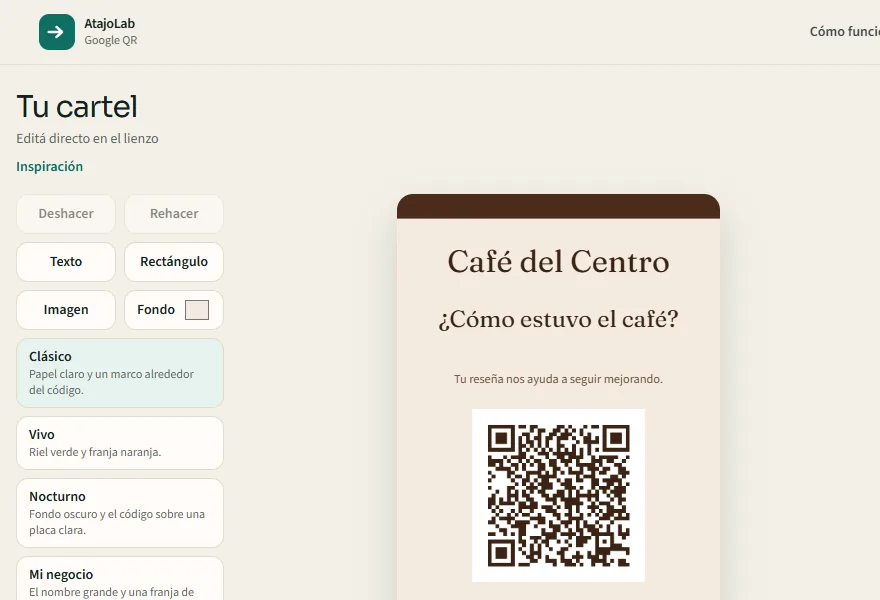
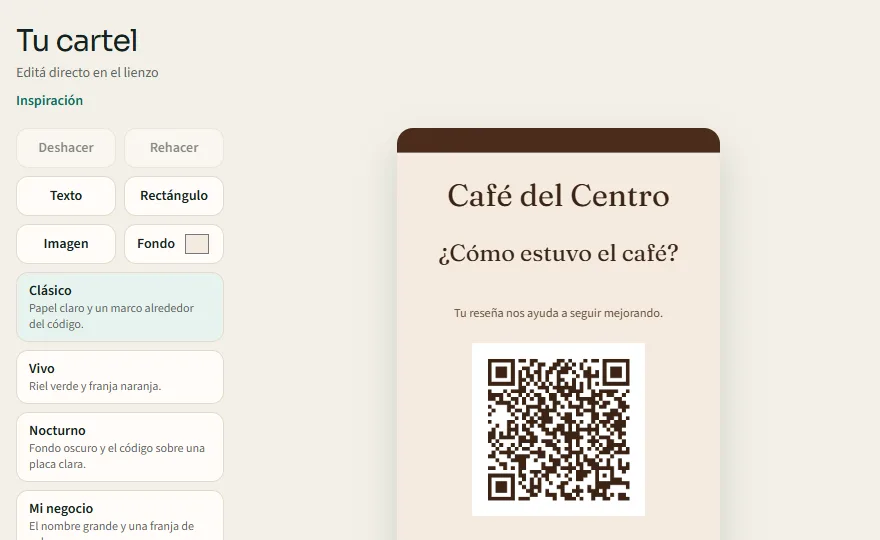
feat(branding): unify AtajoLab visual identity
Replace the arrow mark with the geometric "A" used on social media: an inline SVG traced from the official artwork, with theme-aware gradients (deeper greens on light backgrounds, original colors on dark ones) and an "AtajoLab" wordmark in Sora. Updates the header, footer, hero, 404 and root page, the favicon, Apple touch icon, Open Graph image and structured data logo, and adds a brand kit in public/brand. The QR editor screenshot is cropped so the old mark no longer shows.

diff --git a/src/components/layout/logo.tsx b/src/components/layout/logo.tsx
@@ -1,25 +1,37 @@
+import { useId } from "react";
 import Link from "next/link";
 import type { Locale } from "@/i18n/config";
 import { getDictionary } from "@/i18n/dictionaries";
 import { pagePath } from "@/i18n/routes";
+import { MARK_STOPS, MARK_VIEWBOX, markParts } from "@/lib/brand-mark";
 import { cn } from "@/lib/utils";
 
 /**
- * Official AtajoLab mark (same artwork as the atajolab-google-qr repository):
- * rounded square in brand green with a white arrow. Fixed colors in both themes.
+ * AtajoLab "A" mark. Light and dark variants come from the --logo-* CSS
+ * variables, so it switches with the theme. Size it by height; width follows.
  */
 export function LogoMark({ className }: { className?: string }) {
+  // Gradient ids must be unique per instance (header and footer share a page).
+  const uid = useId().replace(/[^a-zA-Z0-9_-]/g, "");
   return (
-    <svg viewBox="0 0 32 32" className={cn("shrink-0", className ?? "size-9")} aria-hidden="true">
-      <rect width="32" height="32" rx="9" fill="#0f6e62" />
-      <path
-        d="M8.5 16h11M15.5 11.5 20.5 16l-5 4.5"
-        fill="none"
-        stroke="#ffffff"
-        strokeWidth="2.2"
-        strokeLinecap="round"
-        strokeLinejoin="round"
-      />
+    <svg
+      viewBox={MARK_VIEWBOX}
+      className={cn("aspect-[110/74] w-auto shrink-0", className ?? "h-6")}
+      aria-hidden="true"
+      focusable="false"
+    >
+      <defs>
+        {markParts.map(({ id, gradient }) => (
+          <linearGradient key={id} id={`${uid}-${id}`} gradientUnits="userSpaceOnUse" {...gradient}>
+            {MARK_STOPS.map((offset, i) => (
+              <stop key={offset} offset={offset} style={{ stopColor: `var(--logo-${id}-${i + 1})` }} />
+            ))}
+          </linearGradient>
+        ))}
+      </defs>
+      {markParts.map(({ id, d }) => (
+        <path key={id} d={d} fill={`url(#${uid}-${id})`} />
+      ))}
     </svg>
   );
 }
@@ -33,12 +45,12 @@ export function Logo({ locale, className }: LogoProps) {
   return (
     <Link
       href={pagePath("home", locale)}
-      className={cn("inline-flex items-center gap-2.5 rounded-lg", className)}
+      className={cn("inline-flex items-center gap-2 rounded-lg", className)}
       aria-label={getDictionary(locale).a11y.logoHome}
     >
       <LogoMark />
-      <span className="font-display text-lg font-semibold tracking-tight text-ink max-[359px]:sr-only">
-        AtajoLab
+      <span className="font-display text-lg font-bold tracking-tight text-ink max-[359px]:sr-only">
+        Atajo<span className="text-logo-accent">Lab</span>
       </span>
     </Link>
   );

diff --git a/src/components/home/hero-visual.tsx b/src/components/home/hero-visual.tsx
@@ -20,6 +20,7 @@ import type { Locale } from "@/i18n/config";
 import { getDictionary, type Dictionary } from "@/i18n/dictionaries";
 import { pagePath } from "@/i18n/routes";
 import { LogoMark } from "@/components/layout/logo";
+import { MARK_VIEWBOX, markParts } from "@/lib/brand-mark";
 import { cn } from "@/lib/utils";
 
 /**
@@ -108,7 +109,7 @@ function ShortcutPanel({ locale, t, className }: { locale: Locale; t: HomeText; 
         className="flex items-center justify-between border-t border-line px-4 py-2.5 text-xs text-muted"
       >
         <span className="flex items-center gap-2 font-semibold text-ink-soft">
-          <LogoMark className="size-4 rounded-[3px]" />
+          <LogoMark className="h-3" />
           AtajoLab
         </span>
         <span>{t.shortcuts.footer}</span>
@@ -252,18 +253,16 @@ function BrandBackdrop() {
   return (
     <svg
       aria-hidden="true"
-      viewBox="0 0 32 32"
-      className="pointer-events-none absolute top-1/2 left-1/2 hidden w-[108%] -translate-x-1/2 -translate-y-1/2 text-brand-200/60 sm:block"
+      viewBox={MARK_VIEWBOX}
+      className="pointer-events-none absolute top-1/2 left-1/2 hidden w-[108%] -translate-x-1/2 -translate-y-1/2 overflow-visible text-brand-200/60 sm:block"
       fill="none"
+      stroke="currentColor"
+      strokeWidth="0.3"
+      strokeLinejoin="round"
     >
-      <rect x="1" y="1" width="30" height="30" rx="9" stroke="currentColor" strokeWidth="0.12" />
-      <path
-        d="M8.5 16h11M15.5 11.5 20.5 16l-5 4.5"
-        stroke="currentColor"
-        strokeWidth="0.35"
-        strokeLinecap="round"
-        strokeLinejoin="round"
-      />
+      {markParts.map(({ id, d }) => (
+        <path key={id} d={d} />
+      ))}
     </svg>
   );
 }

diff --git a/src/app/globals.css b/src/app/globals.css
@@ -30,6 +30,9 @@
   /* Text on a brand-600 background. */
   --color-on-brand: #ffffff;
 
+  /* "Lab" in the wordmark. */
+  --color-logo-accent: #0f6e62;
+
   /* Neutrals with a slight green tint, so greys feel part of the brand. */
   --color-page: #ffffff;
   --color-card: #ffffff;
@@ -56,6 +59,23 @@
       transform: translateY(0);
     }
   }
+}
+
+/*
+ * AtajoLab mark gradients (three stops per part). Light backgrounds use deeper
+ * shades of the official greens so the edges hold on white; dark backgrounds
+ * use the original artwork colors.
+ */
+:root {
+  --logo-leg-1: #6fe04f;
+  --logo-leg-2: #1fc27a;
+  --logo-leg-3: #04a07c;
+  --logo-fold-1: #0f6e62;
+  --logo-fold-2: #11845f;
+  --logo-fold-3: #2fb055;
+  --logo-foot-1: #039672;
+  --logo-foot-2: #14ad72;
+  --logo-foot-3: #46cf5c;
 }
 
 /*
@@ -90,6 +110,17 @@
 
   --shadow-card: 0 1px 2px rgb(0 0 0 / 0.35), 0 10px 30px -16px rgb(0 0 0 / 0.6);
   --shadow-float: 0 2px 6px rgb(0 0 0 / 0.35), 0 24px 48px -20px rgb(0 0 0 / 0.7);
+
+  --color-logo-accent: #5ee36a;
+  --logo-leg-1: #9ffb66;
+  --logo-leg-2: #3fe58a;
+  --logo-leg-3: #00bf8f;
+  --logo-fold-1: #077a62;
+  --logo-fold-2: #14a067;
+  --logo-fold-3: #3fd05d;
+  --logo-foot-1: #03b07c;
+  --logo-foot-2: #22d184;
+  --logo-foot-3: #5cec78;
 }
 
 @layer base {

diff --git a/src/lib/brand-mark.ts b/src/lib/brand-mark.ts
@@ -1,0 +1,28 @@
+/**
+ * Geometry of the AtajoLab "A" mark, traced from the official artwork.
+ * Two legs at 60°: the left leg runs over the top, the right leg is split by
+ * the crossbar into a darker fold (tucked under the left leg) and a foot.
+ * Colors come from CSS variables (see globals.css), so the mark follows the theme.
+ */
+export const MARK_VIEWBOX = "0 0 110 74";
+
+export const markParts = [
+  {
+    id: "leg",
+    d: "M40.21 3.81A7.5 7.5 0 0 1 46.73 0L64.03 0A8.5 8.5 0 0 1 71.43 4.31L82.72 24.25L59.66 24.25L33.66 70.19A7.5 7.5 0 0 1 27.13 74L7.34 74A4 4 0 0 1 3.86 68.03Z",
+    gradient: { x1: 61, y1: 0.75, x2: 13.5, y2: 73.25 },
+  },
+  {
+    id: "fold",
+    d: "M73.66 8.25L93.13 42.67A1.25 1.25 0 0 1 92 43.75L63.6 43.75A4 4 0 0 1 60.1 42.75L54.22 33.35L62.21 19.75C65.71 13.25 67.16 7.25 73.66 8.25Z",
+    gradient: { x1: 67.25, y1: 9.25, x2: 92.25, y2: 43.75 },
+  },
+  {
+    id: "foot",
+    d: "M63.28 49.37A1.25 1.25 0 0 1 64.37 47.5L91.79 47.5A7 7 0 0 1 97.88 51.05L105.8 65.03A4.5 4.5 0 0 1 101.88 71.75L79.74 71.75A6.5 6.5 0 0 1 74.08 68.45Z",
+    gradient: { x1: 63.5, y1: 55.5, x2: 107.25, y2: 63 },
+  },
+] as const;
+
+/** Three stops per part: --logo-{part}-1..3. */
+export const MARK_STOPS = [0, 0.5, 1] as const;

diff --git a/src/app/global-not-found.tsx b/src/app/global-not-found.tsx
@@ -27,7 +27,7 @@ export default function GlobalNotFound() {
           <div aria-hidden="true" className="bg-grid mask-fade absolute inset-0" />
           <div className="relative mx-auto w-full max-w-4xl px-4 py-20 sm:px-6">
             <div className="flex justify-center">
-              <LogoMark className="size-11" />
+              <LogoMark className="h-10" />
             </div>
             <p className="mt-6 text-center font-display text-sm font-semibold text-brand-700">Error 404</p>
             <div className="mt-8 grid gap-6 sm:grid-cols-2">

diff --git a/src/app/(root)/page.tsx b/src/app/(root)/page.tsx
@@ -9,7 +9,7 @@ export default function RootPage() {
   const t = getDictionary(defaultLocale).redirect;
   return (
     <main className="flex flex-col items-center gap-4 text-center">
-      <LogoMark />
+      <LogoMark className="h-8" />
       <h1 className="text-xl font-semibold text-ink">{t.title}</h1>
       <p className="text-muted">{t.text}</p>
       <Link href={pagePath("home", defaultLocale)} className="font-semibold text-brand-700 underline-offset-2 hover:underline">

diff --git a/src/data/microapps.ts b/src/data/microapps.ts
@@ -46,7 +46,7 @@ export const microappSources: MicroappSource[] = [
       {
         src: "/images/microapps/atajolab-qr/editor.webp",
         width: 880,
-        height: 600,
+        height: 540,
         alt: {
           es: "Editor de AtajoLab QR con un cartel de ejemplo para una cafetería y estilos sugeridos a la izquierda.",
           en: "AtajoLab QR editor showing a sample sign for a café, with suggested styles on the left.",

diff --git a/src/views/home.tsx b/src/views/home.tsx
@@ -36,7 +36,7 @@ export function HomeView({ locale }: { locale: Locale }) {
         name: site.name,
         url: site.url,
         email: site.email,
-        logo: absoluteUrl("/icon.svg"),
+        logo: absoluteUrl("/brand/atajolab-icon-512.png"),
         description: t.meta.siteDescription,
       },
       {

diff --git a/README.md b/README.md
@@ -94,6 +94,10 @@ docs/DEPLOY.md         Deployment guide (Cloudflare Pages)
 
 Light, dark and system. The choice is stored in `localStorage` (`atajolab-theme`) and applied by a tiny inline script before the first paint, so there is no flash of the wrong theme. Colors are CSS variables redefined under `.dark` in `src/app/globals.css`.
 
+## Brand assets
+
+The "A" mark is an inline SVG (`src/lib/brand-mark.ts`, rendered by `LogoMark`). Its gradients read `--logo-*` variables from `globals.css`: deeper greens on light backgrounds, the original artwork colors on dark ones. Static versions live in `public/brand/` (horizontal logo and mark for light and dark backgrounds, square icon in SVG and 512 px PNG); the favicon is `src/app/icon.svg` and the Open Graph image is `public/og.png`.
+
 ## Adding a microapp
 
 Add an entry to `src/data/microapps.ts` with its texts in both languages. The library, filters, tool pages, sitemap and metadata pick it up. Rules enforced by the tests:
